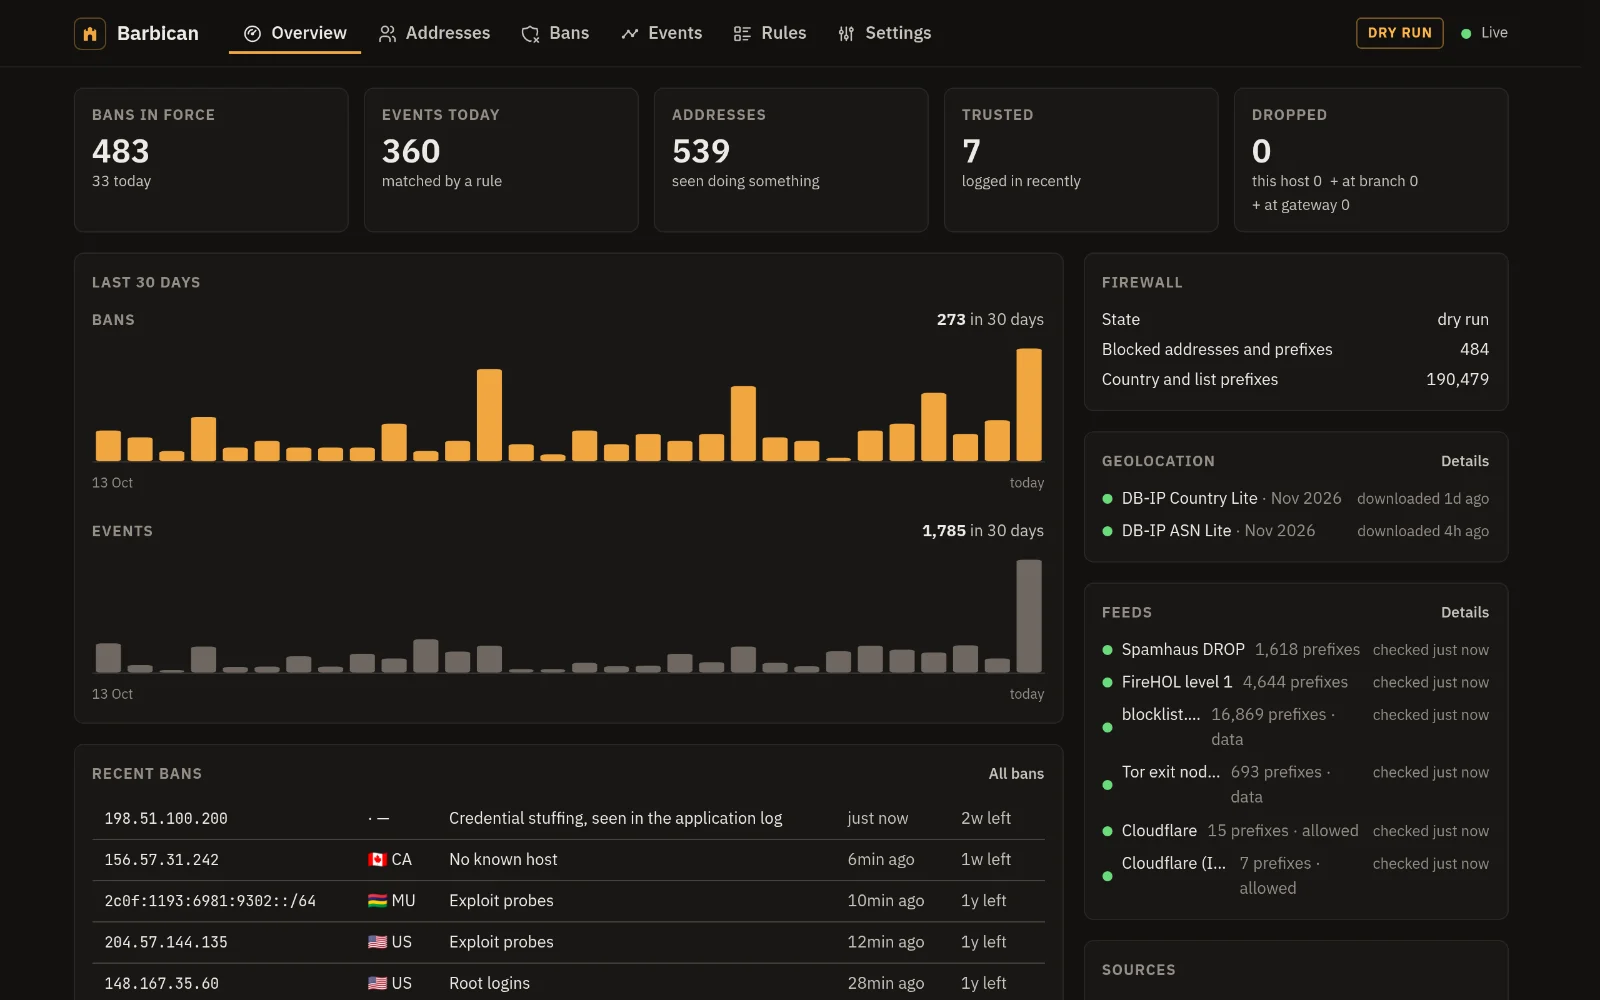
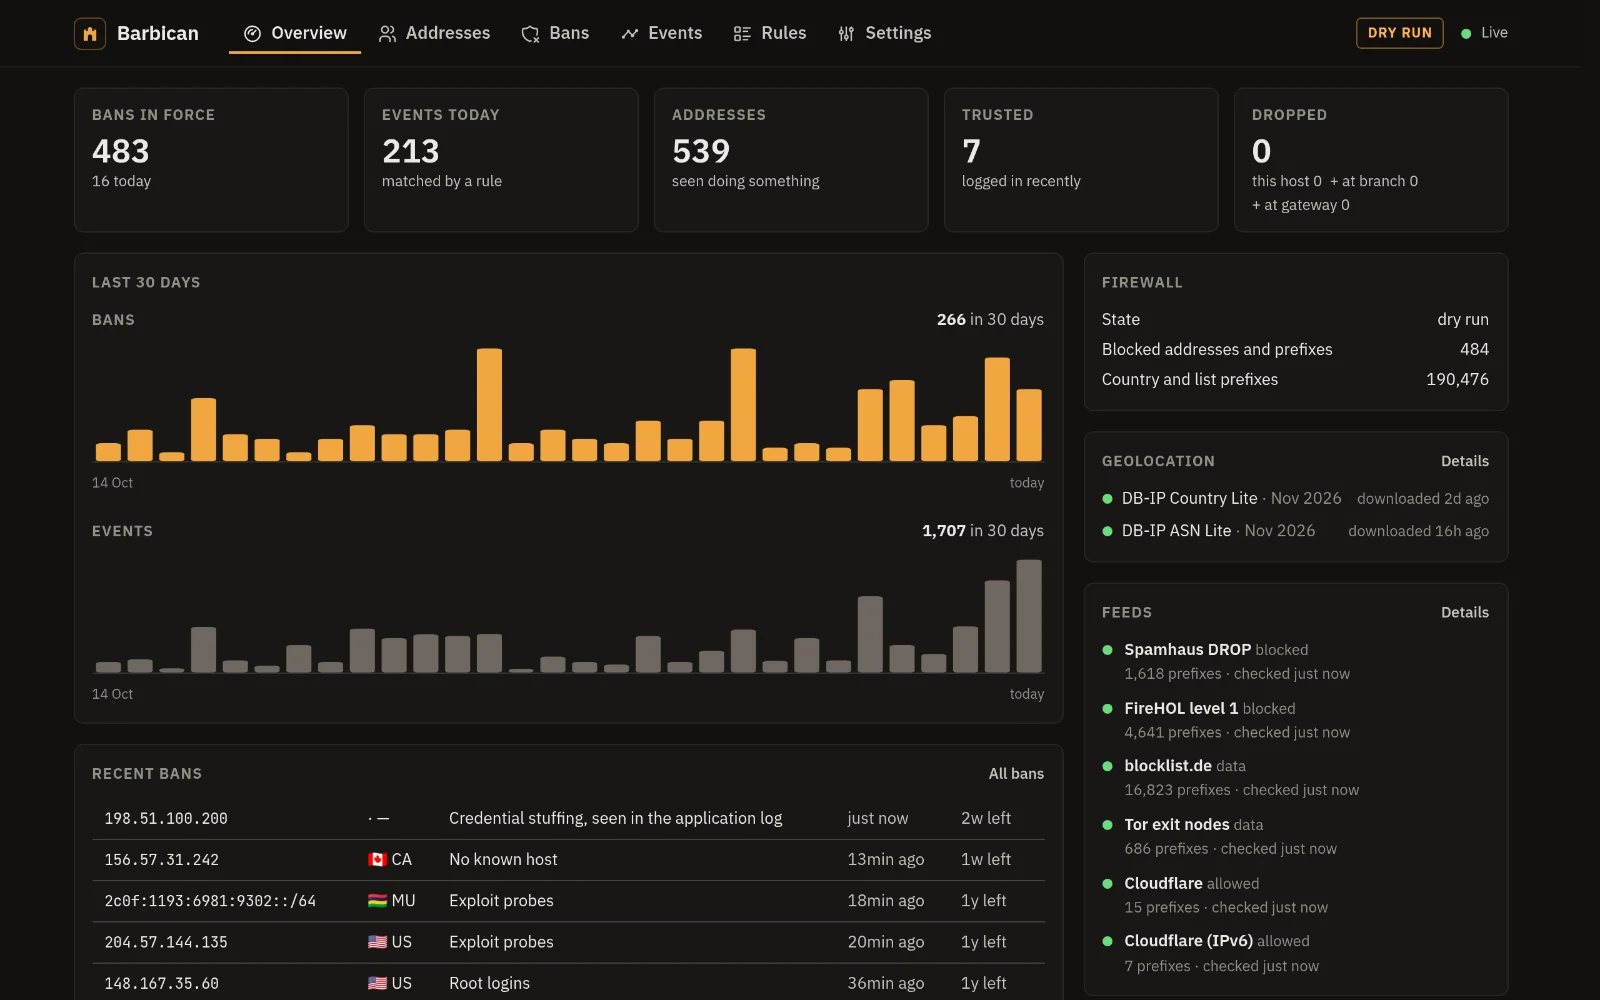
fix(ui): the overview's feeds are laid out like its sources
Long feed names were cut off and the counts wrapped under them. Each feed
now has its name and role (blocked, allowed or data) on one line and the
prefix count and when it was checked under it, or its error.

diff --git a/web/src/screens/Overview.tsx b/web/src/screens/Overview.tsx
@@ -5,7 +5,6 @@ import type { EdgeStatus, Feed, FirewallStatus, Live } from '../api/generated/mo
 import { Bars } from '../components/Bars'
 import { EdgeLines } from '../components/Edges'
 import { GeoSummary } from '../components/Geo'
-import status from '../components/Status.module.css'
 import { Country, Panel, Stat } from '../components/ui'
 import { edgeDropped } from '../lib/edges'
 import { ago, compact, count, day, KIND_LABELS, remaining } from '../lib/format'
@@ -59,22 +58,35 @@ function LiveFeed() {
   )
 }
 
-/** A blocklist's line for the overview: its name, how many prefixes, and how recent the list is. */
+/** A blocklist for the overview, laid out like a source: its name and what it does, then how many prefixes and how
+ * recent the list is (or why it fails). */
 function FeedLine({ feed: f, now }: { feed: Feed; now: number }) {
-  const ok = f.error === null && f.changed !== null
-  let when = f.succeeded === null ? 'not yet' : `checked ${ago(f.succeeded, now)}`
+  const failing = f.def.enabled && f.error !== null
+  let role = 'blocked'
+  if (f.def.allow) role = 'allowed'
+  else if (!f.def.block) role = 'data'
+  let when = f.succeeded === null ? 'not yet checked' : `checked ${ago(f.succeeded, now)}`
   if (!f.def.enabled) when = 'off'
-  else if (f.error !== null) when = 'failing'
   return (
-    <div className={status.line} title={f.error ?? undefined}>
-      <span className={status.dot} data-ok={ok || !f.def.enabled} data-off={!f.def.enabled} />
-      <span className={status.value}>{f.def.name}</span>
-      <span className={status.faint}>
-        {count(f.count)} prefixes{f.def.allow ? ' · allowed' : f.def.block ? '' : ' · data'}
-      </span>
-      <span className={status.when} data-bad={f.error !== null && f.def.enabled}>
-        {when}
-      </span>
+    <div className={classes.source}>
+      <span
+        className={classes.state}
+        data-ok={!f.def.enabled || (f.error === null && f.changed !== null)}
+        data-off={!f.def.enabled}
+      />
+      <div style={{ minWidth: 0 }}>
+        <Text fz={13} fw={600} truncate>
+          {f.def.name} <span className={classes.parser}>{role}</span>
+        </Text>
+        {failing && (
+          <Text fz={12} c="var(--status-bad)" truncate title={f.error ?? undefined}>
+            {f.error}
+          </Text>
+        )}
+        <Text fz={12} c="var(--ink-faint)">
+          {count(f.count)} prefixes · {when}
+        </Text>
+      </div>
     </div>
   )
 }
@@ -270,7 +282,7 @@ export function OverviewScreen() {
               </a>
             }
           >
-            <Stack gap={6}>
+            <Stack gap={8}>
               {feeds.data?.length === 0 && (
                 <Text fz={13} c="var(--ink-dim)">
                   None yet

diff --git a/web/src/screens/Overview.module.css b/web/src/screens/Overview.module.css
@@ -78,6 +78,10 @@
   background: var(--status-good);
 }
 
+.state[data-off='true'] {
+  background: var(--ink-faint);
+}
+
 .parser {
   font-weight: 400;
   font-size: 12px;
